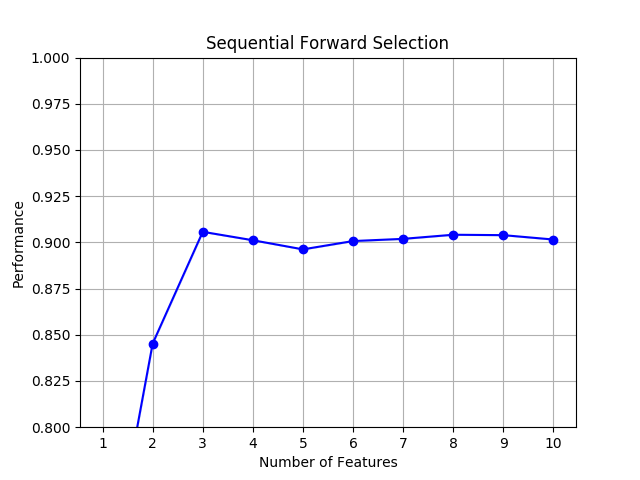
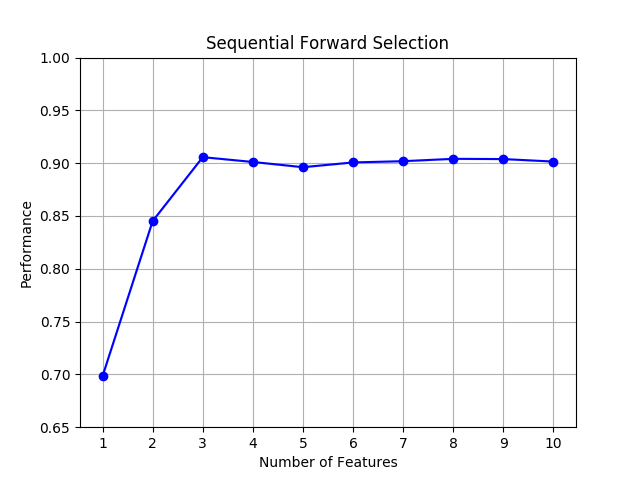
1.- Extracción de datos de cierre (100%) 1.1.- Emparejamiento de fechas entre Mysql y Influx (100%) 1.5.- Escalograma (100%) 2.- Transformación de las señales x, y, z en frecuencia sobre bandas de frecuencia (100%) 3.- Caracterización de las señales en frecuencia por banda y eje (100%) 4.- Guardado 
#----------
5.- Clustering (100%) - Se debe mejorar.
6.- Etiquetado de fechas (100%).
#----------
6.- Preproceso de los datos (100%).
7.- Etiquetado con algoritmo Semi Supervisado (100%)
7.1.- Pruebas con Spreading & Propagation y con los kernels knn y rbf (100%) - No sirvió
8.- Entrenamiento de Regresión Logística (100%).

diff --git a/Enero2020/postCreditos.py b/Enero2020/postCreditos.py
@@ -1,35 +1,105 @@
 import pickle
+
+import matplotlib.pyplot as plt
+import pandas as pd
 from mlxtend.feature_selection import SequentialFeatureSelector as SFS
 from mlxtend.plotting import plot_sequential_feature_selection as plot_sfs
-import matplotlib.pyplot as plt
+from sklearn import svm
+
+
+def likestepwise(svr, x, y, num_features):
+    sfs = SFS(svr,
+              k_features=num_features,
+              forward=True,
+              floating=False,
+              verbose=2,
+              scoring='r2',
+              cv=0,
+              n_jobs=-1)
+
+    sfs = sfs.fit(x, y)
+
+    print(f'\nR2: {sfs.k_score_:.3f}')
+    print(f'Nombre Variables: {sfs.k_feature_names_}')
+
+    plot_sfs(sfs.get_metric_dict(), kind='std_dev')
+
+    plt.ylim([0.65, 1])
+    plt.title('Sequential Forward Selection')
+    plt.grid()
+    plt.show()
+
+    return sfs
 
 
 ruta = '/home/arielmardones/Documentos/Respaldo-Ariel/SensoVal/Datos/'
 svr_pickle = ruta + 'saveVar.txt'
-with open(svr_pickle, 'r') as f:
-    X, y, svr_final, reduced_data= pickle.load(f)
+with open(svr_pickle, 'rb') as f:
+    X, y, svr_final, reduced_data, fechas = pickle.load(f)
 
-sfs = SFS(svr_final,
-          k_features=10,
-          forward=True,
-          floating=False,
-          verbose=2,
-          scoring='r2',
-          cv=0,
-          n_jobs=-1)
+# sfs1 = likestepwise(svr_final, X, y, 10)
+# sfs2 = likestepwise(svr_final, X, y, 3)
 
-sfs = sfs.fit(X, y)
+col_names = ['n° x Cero-cD2-db1-x', 'n° x Media-cD2-db1-x', 'n° x Cero-cD4-db6-x', 'n° x Media-cD4-db6-x', 'n25-cD5-db8-x', 'n° x Cero-cD6-db8-y', 'n° x Cero-cD4-db8-y', 'n95-cD8-db6-z', 'minimo-cD7-db8-z', 'n° x Media-cD0-db8-z']
+# col_names = ['n° x Cero-cD4-db6-x', 'n25-cD5-db8-x', 'n° x Cero-cD4-db8-y']
+X2 = X[col_names]
+svr_final = svm.SVR(epsilon=0.2)
+svr_final.fit(X2, y)
+print(f'R2 con {len(col_names)} variables: {svr_final.score(X2, y):.3f}')
 
-print(sfs.k_score_)
-print(sfs.k_feature_names_)
+# Calculo de la nueva zona Hazard
+# scores = []
+# hazard_zone = []
+# for i in range(100):
+#     x_train, x_test = train_test_split(X2, test_size=0.2, random_state=i)
+#     x_train.sort_index(inplace=True)
+#     x_test.sort_index(inplace=True)
+#
+#     y_train = y[x_train.index.values]
+#     y_test = y[x_test.index.values]
+#
+#     try:
+#         svr_final.fit(x_train, y_train)
+#         prediction_svr = svr_final.predict(x_test)
+#         fpr_svr, tpr_svr, thresholds_svr = roc_curve(y_test, prediction_svr)
+#         optimal_threshold_svr = thresholds_svr[np.argmax(tpr_svr - fpr_svr)]
+#         auc_svr = roc_auc_score(y_test, prediction_svr)
+#
+#         scores.append(auc_svr)
+#         hazard_zone.append(optimal_threshold_svr)
+#     except ValueError:
+#         pass
 
-fig1 = plot_sfs(sfs.get_metric_dict(), kind='std_dev')
-
-plt.ylim([0.8, 1])
-plt.title('Sequential Forward Selection')
-plt.grid()
-plt.show()
+# hz = np.mean(hazard_zone) # 0.6574675615042034 ; 0.3425324384957966
+# print(np.mean(hazard_zone))
 
 
+# import matplotlib.pyplot as plt
+# from sklearn.metrics import roc_curve
+# from sklearn.model_selection import train_test_split
+#
+# x_train, x_test, y_train, y_test = train_test_split(X2, y, test_size=0.2, random_state=35)
+# prediction_final2 = svr_final.predict(x_test)
+# fpr_svr, tpr_svr, thresholds_svr = roc_curve(y_test, prediction_final2)
+# # Gráfica ROC AUC
+# # plot the roc curve for the models
+# plt.close()
+# plt.plot(fpr_svr, tpr_svr, marker='.', label='SVM')
+# # axis labels
+# plt.xlabel('False Positive Rate')
+# plt.ylabel('True Positive Rate')
+# # show the legend
+# plt.legend()
+# plt.grid()
+# # show the plot
+# plt.savefig(ruta + 'plot.png')
 
-print('')
+# Pronostico sobre datos sin etiquetas
+xx = reduced_data[reduced_data['etiqueta'] == -1].iloc[:, 0:-3]
+yy = reduced_data[reduced_data['etiqueta'] == -1]['etiqueta']
+prediction_final = svr_final.predict(xx[col_names])
+
+resumen = pd.DataFrame(prediction_final, columns=['SVR'])
+resumen['indice'] = xx.index.values
+resumen['fechas'] = fechas[0][xx.index.values].values
+resumen.set_index(columns='indice', inplace=True)

diff --git a/Enero2020/cluster_plus_regression.py b/Enero2020/cluster_plus_regression.py
@@ -248,7 +248,7 @@ print(f'R2 : {svr_final.score(X, y)}')
 
 svr_pickle = ruta + 'saveVar.txt'
 with open(svr_pickle, 'wb') as f:
-    pickle.dump([X, y, svr_final, reduced_data], f)
+    pickle.dump([X, y, svr_final, reduced_data, fechas], f)
 
 # prediction_svr_final = svr.predict(test)
 # fpr_svr, tpr_svr, thresholds_svr = roc_curve(y_test, prediction_svr)
